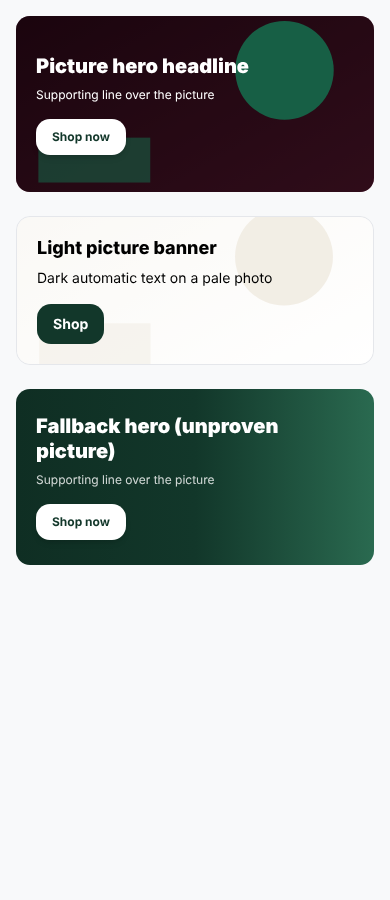
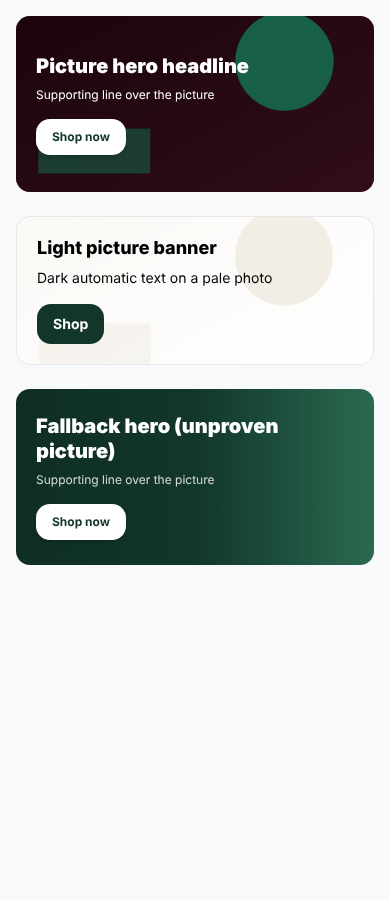
fix(storefront): per-picture focal points; reuse the evidence resolver across references (Codex P2 on #1279)
Claude-Session: https://claude.ai/code/session_01X45qjD8TFC1aANFxVZSvb2

diff --git a/storefront/src/components/home/__tests__/SectionBackdrop.test.tsx b/storefront/src/components/home/__tests__/SectionBackdrop.test.tsx
@@ -86,10 +86,37 @@ describe("SectionBackdrop (CUST-HV V6b-3)", () => {
     expect(sourcesEls[0].getAttribute("srcset")).toContain("/m-");
     expect(sourcesEls[2].getAttribute("srcset")).toContain("/d-");
     expect(container.querySelectorAll("img")).toHaveLength(1);
-    expect(
-      (container.querySelector("img") as HTMLImageElement).style.objectPosition,
-    ).toBe("25% 75%");
+    // each picture is framed by its own focal point: the default one's and the phone one's (centred when
+    // it has none) are published as variables the backdrop CSS switches at the phone breakpoint
+    const backdropStyle = (container.firstElementChild as HTMLElement).style;
+    expect(backdropStyle.getPropertyValue("--sd-pos")).toBe("25% 75%");
+    expect(backdropStyle.getPropertyValue("--sd-pos-m")).toBe("50% 50%");
     expect(container.querySelector("[data-sd-overlay]")).toBeTruthy();
+  });
+
+  it("the phone picture carries its own focal point; without a phone picture no phone variable is set", () => {
+    const { container } = render(
+      <SectionBackdrop
+        data={{
+          media: media("d"),
+          mobile: media("m"),
+          focal: { x: 10, y: 20 },
+          mobileFocal: { x: 80, y: 30 },
+          overlay: false,
+        }}
+      />,
+    );
+    const style = (container.firstElementChild as HTMLElement).style;
+    expect(style.getPropertyValue("--sd-pos")).toBe("10% 20%");
+    expect(style.getPropertyValue("--sd-pos-m")).toBe("80% 30%");
+    cleanup();
+    const plain = render(
+      <SectionBackdrop
+        data={{ media: media("d"), focal: { x: 10, y: 20 }, overlay: false }}
+      />,
+    ).container.firstElementChild as HTMLElement;
+    expect(plain.style.getPropertyValue("--sd-pos")).toBe("10% 20%");
+    expect(plain.style.getPropertyValue("--sd-pos-m")).toBe("");
   });
 
   it("only the page's first hero loads eagerly with high priority; the rest are lazy", () => {

diff --git a/storefront/src/components/home/SectionBackdrop.tsx b/storefront/src/components/home/SectionBackdrop.tsx
@@ -35,15 +35,20 @@ export function SectionBackdrop({
     widths.filter((s) => s.format === "jpg").at(-1) ??
     widths.at(-1) ??
     media.sources[0];
-  const style: CSSProperties = data.focal
-    ? { objectPosition: `${data.focal.x}% ${data.focal.y}%` }
-    : {};
+  // Each picture is framed by its own focal point, switched at the same breakpoint as the sources
+  // (the `object-position` rules live with the backdrop CSS; only validated integers are written).
+  const position = (focal?: { x: number; y: number }) =>
+    focal ? `${focal.x}% ${focal.y}%` : "50% 50%";
+  const style = {
+    "--sd-pos": position(data.focal),
+    ...(mobile ? { "--sd-pos-m": position(data.mobileFocal) } : {}),
+  } as CSSProperties;
   const mobileWebp = mobile ? srcSet(mobile, "webp") : "";
   const mobileJpg = mobile ? srcSet(mobile, "jpg") : "";
   const webp = srcSet(media, "webp");
 
   return (
-    <div data-sd-backdrop="" aria-hidden="true">
+    <div data-sd-backdrop="" aria-hidden="true" style={style}>
       <picture>
         {mobileWebp ? (
           <source
@@ -72,7 +77,6 @@ export function SectionBackdrop({
           loading={priority ? "eager" : "lazy"}
           fetchPriority={priority ? "high" : undefined}
           decoding="async"
-          style={style}
         />
       </picture>
       {data.overlay ? <div data-sd-overlay="" /> : null}

diff --git a/storefront/src/components/home/__tests__/published-nodes.media.test.tsx b/storefront/src/components/home/__tests__/published-nodes.media.test.tsx
@@ -8,6 +8,8 @@ import type { PresentationHomeSection } from "@/lib/presentation/config";
 import type { ResolvedMedia } from "@/lib/presentation/media-ref";
 import { publishedNodes } from "../published-nodes";
 
+type ResolvedContrast = NonNullable<ResolvedMedia["contrast"]>;
+
 afterEach(cleanup);
 
 const ID = "0b8f6c2e-3d3a-4a53-9c7e-8f1a2b3c4d5e";
@@ -39,14 +41,8 @@ function resolved(contrast?: ResolvedMedia["contrast"]): ResolvedMedia {
   };
 }
 
-const DARK = { min: [0, 0, 0], max: [40, 50, 60] } as [
-  number,
-  number,
-  number,
-][] extends never
-  ? never
-  : { min: [number, number, number]; max: [number, number, number] };
-const WIDE = { min: [0, 0, 0], max: [255, 255, 255] } as typeof DARK;
+const DARK: ResolvedContrast = { min: [0, 0, 0], max: [40, 50, 60] };
+const WIDE: ResolvedContrast = { min: [0, 0, 0], max: [255, 255, 255] };
 
 const renderHero = ({
   section,

diff --git a/storefront/src/lib/presentation/__tests__/background-media.test.ts b/storefront/src/lib/presentation/__tests__/background-media.test.ts
@@ -92,7 +92,7 @@ describe("section background media (CUST-HV V6b-3)", () => {
     const section = hero("a", {
       kind: "media",
       media: { mediaId: A, decorative: true, focal: { x: 20, y: 70 } },
-      mobile: { mediaId: B, decorative: true },
+      mobile: { mediaId: B, decorative: true, focal: { x: 70, y: 10 } },
       overlay: { color: { role: "overlay" }, alpha: 40 },
     });
     const data = sectionBackdrop(section, 0, {
@@ -102,6 +102,7 @@ describe("section background media (CUST-HV V6b-3)", () => {
     expect(data?.media.width).toBe(1600);
     expect(data?.mobile?.width).toBe(700);
     expect(data?.focal).toEqual({ x: 20, y: 70 });
+    expect(data?.mobileFocal).toEqual({ x: 70, y: 10 });
     expect(data?.overlay).toBe(true);
   });
 

diff --git a/storefront/src/lib/presentation/background-media.ts b/storefront/src/lib/presentation/background-media.ts
@@ -51,6 +51,8 @@ export interface SectionBackdropData {
   media: ResolvedMedia;
   focal?: { x: number; y: number };
   mobile?: ResolvedMedia;
+  /** The phone picture's OWN focal point (absent ⇒ centred): each picture is framed by its own reference. */
+  mobileFocal?: { x: number; y: number };
   overlay: boolean;
 }
 
@@ -71,6 +73,7 @@ export function sectionBackdrop(
     media,
     ...(bg.media.focal ? { focal: bg.media.focal } : {}),
     ...(mobile ? { mobile } : {}),
+    ...(mobile && bg.mobile?.focal ? { mobileFocal: bg.mobile.focal } : {}),
     overlay: bg.overlay !== undefined,
   };
 }

diff --git a/web/src/modules/store-experience-builder/store-preview.css b/web/src/modules/store-experience-builder/store-preview.css
@@ -307,6 +307,12 @@
 }
 .awj-store-preview [data-sd-backdrop] img {
   object-fit: cover;
+  object-position: var(--sd-pos, 50% 50%);
+}
+@media (max-width: 767px) {
+  .awj-store-preview [data-sd-backdrop] img {
+    object-position: var(--sd-pos-m, var(--sd-pos, 50% 50%));
+  }
 }
 .awj-store-preview [data-sd-backdrop] ~ * {
   position: relative;

diff --git a/storefront/src/app/globals.css b/storefront/src/app/globals.css
@@ -765,6 +765,12 @@ input[type="search"]::-webkit-search-cancel-button {
 }
 [data-sd-backdrop] img {
   object-fit: cover;
+  object-position: var(--sd-pos, 50% 50%);
+}
+@media (max-width: 767px) {
+  [data-sd-backdrop] img {
+    object-position: var(--sd-pos-m, var(--sd-pos, 50% 50%));
+  }
 }
 [data-sd-backdrop] ~ * {
   position: relative;

diff --git a/app/Services/Commerce/StorefrontPublishedMediaResolver.php b/app/Services/Commerce/StorefrontPublishedMediaResolver.php
@@ -54,6 +54,10 @@ final class StorefrontPublishedMediaResolver
             ->get()
             ->keyBy('id');
 
+        $evidence = app(StorefrontMediaContrastEvidence::class);
+        /** @var array<string, array{min:list<int>,max:list<int>}|null> $bounds بحسب (أصل + مفتاح استخدام): استخدامٌ مكرَّر يُقاس مرةً واحدة في الطلب */
+        $bounds = [];
+
         $resolved = [];
         foreach ($refs as ['path' => $path, 'ref' => $ref]) {
             $asset = $assets->get($ref['mediaId']);
@@ -65,9 +69,9 @@ final class StorefrontPublishedMediaResolver
             if ($entry !== null) {
                 // V6b-3 — حدود التباين لصور خلفيات الأقسام فقط؛ غيابها (دليلٌ غير صالح) = «غير مُثبَت» فلا لون نص تلقائي.
                 if (str_contains($path, '.design.background.')) {
-                    $bounds = app(StorefrontMediaContrastEvidence::class)->boundsFor($ref);
-                    if ($bounds !== null) {
-                        $entry['contrast'] = $bounds;
+                    $contrast = $this->contrastFor($evidence, $asset, $ref, $bounds);
+                    if ($contrast !== null) {
+                        $entry['contrast'] = $contrast;
                     }
                 }
                 $resolved[$path] = $entry;
@@ -75,6 +79,31 @@ final class StorefrontPublishedMediaResolver
         }
 
         return $resolved;
+    }
+
+    /**
+     * حدود تباين استخدامٍ، مُخزَّنة مؤقتاً داخل الطلب بمفتاح (أصل + استخدام) وتعيد استعمال الأصل المحمَّل أصلاً
+     * (لا إعادة استعلامٍ عنه، ولا استعلام مشتقّاتٍ للإطار الافتراضي) — Codex P2 على #1279.
+     *
+     * @param  array<string,mixed>  $ref
+     * @param  array<string, array{min:list<int>,max:list<int>}|null>  $cache
+     * @return array{min:list<int>,max:list<int>}|null
+     */
+    private function contrastFor(StorefrontMediaContrastEvidence $evidence, StorefrontMedia $asset, array $ref, array &$cache): ?array
+    {
+        try {
+            $transform = StorefrontMediaTransform::fromInput([
+                'crop' => $ref['crop'] ?? null,
+                'rotate' => $ref['rotate'] ?? 0,
+                'focal' => $ref['focal'] ?? null,
+                'fit' => $ref['fit'] ?? 'cover',
+            ]);
+        } catch (InvalidArgumentException) {
+            return null;
+        }
+        $key = $transform->usageKey($asset->id);
+
+        return array_key_exists($key, $cache) ? $cache[$key] : ($cache[$key] = $evidence->boundsForUsage($asset, $transform));
     }
 
     /**

diff --git a/tests/Feature/StorefrontMediaRefTest.php b/tests/Feature/StorefrontMediaRefTest.php
@@ -248,6 +248,32 @@ class StorefrontMediaRefTest extends TestCase
     }
 
     /** @test */
+    public function repeated_background_references_cost_one_media_query_and_no_derivative_query_for_default_usages(): void
+    {
+        $this->fakeStorefrontMediaR2();
+        $store = $this->store('mr-queries');
+        $media = $this->uploadMedia($store['auth']);
+        app(TenantContext::class)->set($store['auth']['tenant_id']);
+        $section = static fn (string $id): array => ['id' => $id, 'design' => ['background' => ['kind' => 'media', 'media' => ['mediaId' => $media['id']], 'mobile' => ['mediaId' => $media['id']]]]];
+        $doc = ['homepage' => ['sections' => [$section('a'), $section('b'), $section('c')]]];
+
+        $queries = [];
+        \DB::listen(static function ($q) use (&$queries): void {
+            $queries[] = $q->sql;
+        });
+        $resolved = app(StorefrontPublishedMediaResolver::class)->resolve($doc);
+
+        $this->assertCount(6, $resolved, 'three sections × (main + phone)');
+        foreach ($resolved as $entry) {
+            $this->assertArrayHasKey('contrast', $entry);
+        }
+        $mediaQueries = array_filter($queries, static fn (string $sql): bool => str_contains($sql, '"storefront_media"') || str_contains($sql, '`storefront_media`'));
+        $this->assertCount(1, $mediaQueries, 'the asset is loaded once for the whole document — the bounds reuse it');
+        $this->assertSame([], array_filter($queries, static fn (string $sql): bool => str_contains($sql, 'storefront_media_derivatives')), 'a default usage never reads derivative rows');
+        app(TenantContext::class)->forget();
+    }
+
+    /** @test */
     public function only_section_background_pictures_carry_contrast_bounds_and_only_when_the_evidence_is_valid(): void
     {
         $this->fakeStorefrontMediaR2();

diff --git a/docs/plans/store/CUST-HV-V6B3-IMPLEMENTATION-REPORT.md b/docs/plans/store/CUST-HV-V6B3-IMPLEMENTATION-REPORT.md
@@ -37,11 +37,12 @@
 
 | Gate | Result |
 |---|---|
-| PHP | `StorefrontMediaRefTest` +1: only section-background pictures carry bounds, logos never; nulled evidence ⇒ no bounds; raw `region_luminance` never in the payload |
+| PHP | `StorefrontMediaRefTest` +2 (one asset query for a whole document of repeated references and no derivative query for default usages — Codex P2):  only section-background pictures carry bounds, logos never; nulled evidence ⇒ no bounds; raw `region_luminance` never in the payload |
 | Resolver (twins) | +4 per twin: proven picture ⇒ `mbg`/`ovl`/vars/proven `fg`, never the solid-fill token; overlay-less; **no bounds / empty range / un-clearable range ⇒ nothing painted and no foreground chosen**; overlay makes a wide range provable |
 | Stack | `published-nodes.media` 8: backdrop first child + tokens + eager first hero; unproven ⇒ legacy; wide range ⇒ legacy; phone picture must be proven too; index counts hidden sections; only first hero eager; banner; older payload without media |
 | Units | `SectionBackdrop` 3 (decorative, art direction order, priority) · `background-media` 5 · `resolved-media` contrast parsing |
 | Real browser (Chromium, real `publishedNodes` output + the compiled storefront CSS) | AR RTL + EN LTR × **390 / 768 / 1280**: no horizontal overflow; backdrop exactly covers the hero root; **phone picture chosen at 390, default at 768/1280**; heading is the element on top at its own centre; overlay colour/opacity as authored; backdrop radius = root radius, `overflow:hidden`, `pointer-events:none`; the unproven third section keeps the legacy gradient (mirrored in RTL) and no backdrop; automatic text: white over the dark picture, black over the pale one |
+| **Per-picture framing** | with distinct focal points on the two references, the computed `object-position` is the phone picture's at 390 px and the default picture's at 1280 px (SectionBackdrop test pins the variables; the browser run pins the switch) |
 | **Pixel contrast** | with the text hidden, the real rendered pixels behind each text block were read back: **worst WCAG ratio 7.41 (hero, 390 RTL) … 20.1**, never below 4.5 (`cust-hv-v6b3/pixel-contrast.json`) |
 | Full suites | storefront vitest 1533 ✔ · web `store-experience-builder` 1098 ✔ · tsc + biome clean — PHP/web full numbers in the PR |
 
@@ -62,7 +63,7 @@ Checked at 390 / 768 / 1280, EN LTR and AR RTL: heading, supporting line and CTA
 
 ## Limitations / next
 - **V6b-4** — Canvas paints the same DOM (`useMediaRefPreview` for default + phone) and the merchant inspector gets the picture kind (reusing `MediaRefField`), overlay colour/alpha, AR/EN copy, and a read-only bounds field so the live verdict matches the gate. Until then a picture background can only be authored through the API.
-- The phone picture's own focal point is not applied (CSS `object-position` is per `<img>`); a phone-specific framing is a crop on the phone `MediaRef`, which is a derivative with its own evidence.
+- Each picture is framed by **its own** focal point (Codex P2): the default picture's and the phone picture's (centred when it has none) are published as `--sd-pos` / `--sd-pos-m` on the backdrop and switched by CSS at the same `max-width: 767px` breakpoint as the sources. Measured in Chromium: `object-position` is `15% 85%` at 390 px and `80% 20%` at 1280 px.
 - Text over a picture whose evidence was cleared *after* publish falls back to the legacy surface (by design) rather than breaking.
 
 ---
